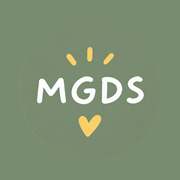
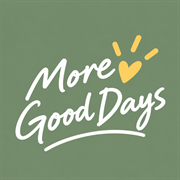
feat: 홈 화면 아이콘을 워드마크로 — 사용자 선택
사용자가 처음에 고른 것이 워드마크였고, 그렇게 갑니다. 파비콘만 배지로
남습니다.

  apple-touch-icon · icon-192 · icon-512    워드마크  (홈 화면)
  favicon-32 · favicon-16                   배지      (브라우저 탭)

워드마크는 손댈 것이 없었습니다

원본이 이미 1254×1254 불투명 RGB 이고 초록이 사방으로 꽉 차 있어서 크기만
줄였습니다. 배지에서 시간이 갔던 헤일로 문제가 여기엔 없습니다.
알파는 한 픽셀도 없는 것을 확인했습니다 (최소 알파 255) — iOS 가 투명한
자리를 검게 두기 때문에 이것만은 봐야 합니다.

⚠ 매니페스트에서 maskable 을 뺐습니다

Android 의 maskable 은 내용이 가운데 **80%** 안에 있을 것을 요구합니다.

  배지      가로 61%   여유 있음    → maskable 가능
  워드마크  가로 83%   80% 초과     → "More" 와 "Days" 끝이 잘림

그림이 바뀌면서 조건도 바뀌었습니다. `purpose` 를 `any` 로 되돌렸습니다.
도로 넣지 마세요 — STATE.md 4-5 에 인용구로 세워 두었습니다.

파비콘은 사용자가 따로 줍니다

약어 4글자로 디자인했는데도 16~32px 에서는 잘 안 보인다는 것이 실제로
확인되었습니다. 그림이 오면 `favicon-16/32` 만 갈아 끼웁니다 —
홈 화면 아이콘과는 이제 다른 그림입니다.

측정값

  워드마크 배경  #748C6B
  내용 범위      x 107..1152 · y 244..1054  (가로 83% · 세로 65%)
  파일           180: 30KB · 192: 34KB · 512: 245KB

게이트: 원칙 린트 6종 · 타입 검사 · 테스트 350건 · 빌드 gzip 124.08 kB

Changed region(s): [[0.0833, 0.2222, 0.9167, 0.8611], [0.8056, 0.25, 0.8889, 0.3333], [0.7222, 0.1944, 0.8056, 0.3056]]

diff --git a/index.html b/index.html
@@ -8,10 +8,11 @@
     <!--
       아이콘 (public/ 에 그대로 놓인 파일들, 만드는 법은 handoff/STATE.md 8장).
 
-      브라우저 탭은 투명 배경의 둥근 배지를 씁니다. 홈 화면 아이콘은
-      **투명이 있으면 안 됩니다** — iOS 가 모서리를 스스로 깎기 때문에
-      투명한 자리는 검게 남거나 잘립니다. 그래서 apple-touch-icon 과
-      매니페스트 아이콘은 초록으로 꽉 채운 정사각입니다.
+      홈 화면 아이콘은 워드마크, 브라우저 탭은 배지로 서로 다릅니다.
+      탭은 투명이 맞고, **홈 화면 아이콘에는 투명이 있으면 안 됩니다** —
+      iOS 가 모서리를 스스로 깎기 때문에 투명한 자리는 검게 남거나
+      잘립니다. 워드마크 원본이 이미 초록으로 꽉 찬 불투명 정사각이라
+      크기만 줄였습니다.
     -->
     <link rel="icon" type="image/png" sizes="32x32" href="/favicon-32.png" />
     <link rel="icon" type="image/png" sizes="16x16" href="/favicon-16.png" />
